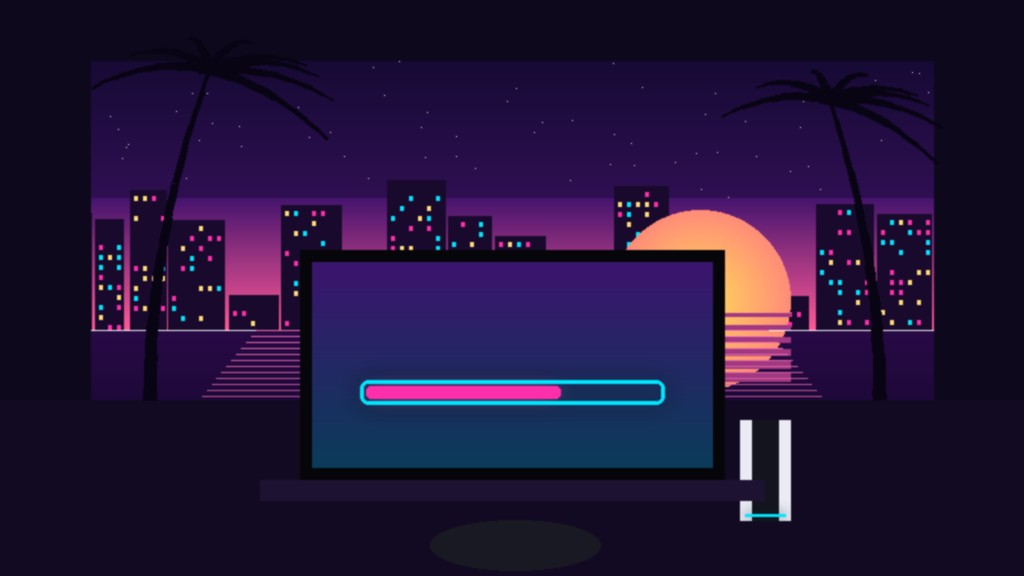
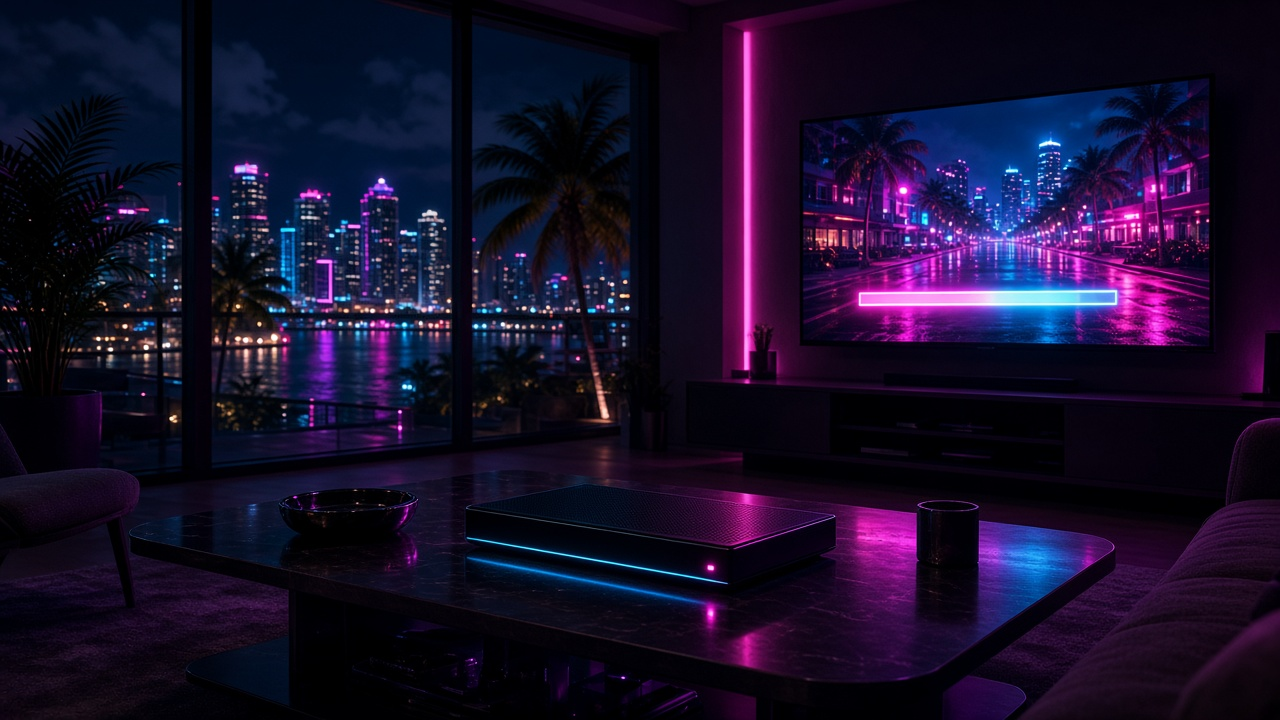
Swap 2026-11-23 post images for generated GTA-style images

diff --git a/posts/can-you-play-darts-in-gta-6-peekhole.html b/posts/can-you-play-darts-in-gta-6-peekhole.html
@@ -16,7 +16,7 @@
   <meta property="og:image" content="https://blog.peekhole.com/assets/img/can-you-play-darts-in-gta-6-peekhole.jpg">
   <meta property="og:image:width" content="1024">
   <meta property="og:image:height" content="576">
-  <meta property="og:image:alt" content="Neon illustration of a Vice City bar at night, a pool table with colored balls and a cue in the foreground, an empty pink neon circle crossed out on the wall where a dartboard would hang, palm trees through the window">
+  <meta property="og:image:alt" content="GTA 6 style screenshot of a neon Vice City bar at night, a woman in a sparkly sequin dress leaning on a pool table with a cue while an untouched dartboard hangs on the wall">
   <meta name="twitter:card" content="summary_large_image">
   <meta name="twitter:title" content="Can You Play Darts in GTA 6? | Peekhole">
   <meta name="twitter:description" content="Can you play darts in GTA 6? No. Rockstar cut darts and bowling. Pool, weightlifting and basketball made it in. Here&#x27;s why, in Rockstar&#x27;s words.">
@@ -39,8 +39,8 @@
   <h2>Can You Play Darts in GTA 6? | Peekhole</h2>
   <p class="ph-date"><time datetime="2026-11-23">November 23, 2026</time></p>
   <figure class="ph-hero">
-    <img src="../assets/img/can-you-play-darts-in-gta-6-peekhole.jpg" alt="Neon illustration of a Vice City bar at night, a pool table with colored balls and a cue in the foreground, an empty pink neon circle crossed out on the wall where a dartboard would hang, palm trees through the window" width="1024" height="576" loading="eager">
-    <figcaption>Original Peekhole illustration, not an official Rockstar screenshot.</figcaption>
+    <img src="../assets/img/can-you-play-darts-in-gta-6-peekhole.jpg" alt="GTA 6 style screenshot of a neon Vice City bar at night, a woman in a sparkly sequin dress leaning on a pool table with a cue while an untouched dartboard hangs on the wall" width="1024" height="576" loading="eager">
+    <figcaption>Original AI-generated Peekhole image, not an official Rockstar screenshot.</figcaption>
   </figure>
   <p><strong>Short answer:</strong> no. There's no darts in GTA 6, and no bowling either. Rockstar North co-studio head Rob Nelson told VGC the team couldn't make darts good enough in time, so it was left out.</p>
   <h3>What did Rockstar say?</h3>

diff --git a/posts/what-is-gta-6-update-01-002-002-peekhole.html b/posts/what-is-gta-6-update-01-002-002-peekhole.html
@@ -16,7 +16,7 @@
   <meta property="og:image" content="https://blog.peekhole.com/assets/img/what-is-gta-6-update-01-002-002-peekhole.jpg">
   <meta property="og:image:width" content="1024">
   <meta property="og:image:height" content="576">
-  <meta property="og:image:alt" content="Neon illustration of a dark Vice City living room at night, a TV showing a glowing pink and cyan download bar, a game console beside it, palm trees and a sunset skyline through the window">
+  <meta property="og:image:alt" content="GTA 6 style screenshot of a neon-lit Vice City apartment at night, a game console on the coffee table and a TV showing a glowing download bar, city skyline and palm trees outside">
   <meta name="twitter:card" content="summary_large_image">
   <meta name="twitter:title" content="What Is GTA 6 Update 01.002.002? | Peekhole">
   <meta name="twitter:description" content="What is GTA 6 update 01.002.002? It&#x27;s the first patch since launch, out Nov 23 on PS5 and Xbox. Size, rollout waves, and why there are no notes.">
@@ -39,8 +39,8 @@
   <h2>What Is GTA 6 Update 01.002.002? | Peekhole</h2>
   <p class="ph-date"><time datetime="2026-11-23">November 23, 2026</time></p>
   <figure class="ph-hero">
-    <img src="../assets/img/what-is-gta-6-update-01-002-002-peekhole.jpg" alt="Neon illustration of a dark Vice City living room at night, a TV showing a glowing pink and cyan download bar, a game console beside it, palm trees and a sunset skyline through the window" width="1024" height="576" loading="eager">
-    <figcaption>Original Peekhole illustration, not an official Rockstar screenshot.</figcaption>
+    <img src="../assets/img/what-is-gta-6-update-01-002-002-peekhole.jpg" alt="GTA 6 style screenshot of a neon-lit Vice City apartment at night, a game console on the coffee table and a TV showing a glowing download bar, city skyline and palm trees outside" width="1024" height="576" loading="eager">
+    <figcaption>Original AI-generated Peekhole image, not an official Rockstar screenshot.</figcaption>
   </figure>
   <p><strong>Short answer:</strong> GTA 6 update 01.002.002 is the game's first patch since its November 19 launch. It started rolling out on November 23, 2026, on PS5 and Xbox Series X|S, and Rockstar hasn't said what it changes yet.</p>
   <h3>How big is it?</h3>

diff --git a/posts/can-you-still-get-gta-6-vintage-vice-city-pack-peekhole.html b/posts/can-you-still-get-gta-6-vintage-vice-city-pack-peekhole.html
@@ -16,7 +16,7 @@
   <meta property="og:image" content="https://blog.peekhole.com/assets/img/can-you-still-get-gta-6-vintage-vice-city-pack-peekhole.jpg">
   <meta property="og:image:width" content="1024">
   <meta property="og:image:height" content="576">
-  <meta property="og:image:alt" content="Neon illustration of a mint-green 1950s sedan parked outside a pink beachside garage at sunset, striped sun over the ocean, palm tree silhouettes">
+  <meta property="og:image:alt" content="GTA 6 style screenshot of a classic 1950s convertible outside a neon beachside garage at sunset, a woman in a red sequin gown beside it, palm trees and ocean behind">
   <meta name="twitter:card" content="summary_large_image">
   <meta name="twitter:title" content="Can You Still Get GTA 6 Vintage Vice City Pack? | Peekhole">
   <meta name="twitter:description" content="Can you still get the GTA 6 Vintage Vice City Pack? Yes. It&#x27;s now a $4.99 add-on on PS5 and Xbox. Here&#x27;s what&#x27;s inside and who already has it.">
@@ -39,8 +39,8 @@
   <h2>Can You Still Get GTA 6 Vintage Vice City Pack? | Peekhole</h2>
   <p class="ph-date"><time datetime="2026-11-23">November 23, 2026</time></p>
   <figure class="ph-hero">
-    <img src="../assets/img/can-you-still-get-gta-6-vintage-vice-city-pack-peekhole.jpg" alt="Neon illustration of a mint-green 1950s sedan parked outside a pink beachside garage at sunset, striped sun over the ocean, palm tree silhouettes" width="1024" height="576" loading="eager">
-    <figcaption>Original Peekhole illustration, not an official Rockstar screenshot.</figcaption>
+    <img src="../assets/img/can-you-still-get-gta-6-vintage-vice-city-pack-peekhole.jpg" alt="GTA 6 style screenshot of a classic 1950s convertible outside a neon beachside garage at sunset, a woman in a red sequin gown beside it, palm trees and ocean behind" width="1024" height="576" loading="eager">
+    <figcaption>Original AI-generated Peekhole image, not an official Rockstar screenshot.</figcaption>
   </figure>
   <p><strong>Short answer:</strong> yes. The Vintage Vice City Pack, once a free pre-order bonus, is now sold on its own for $4.99 in the US (£4.49 in the UK) on PS5 and Xbox Series X|S. You need GTA 6 to use it.</p>
   <h3>What's in the pack?</h3>
